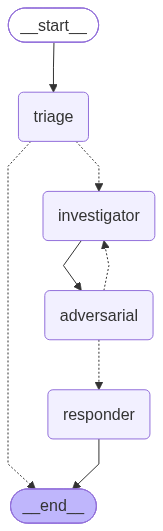
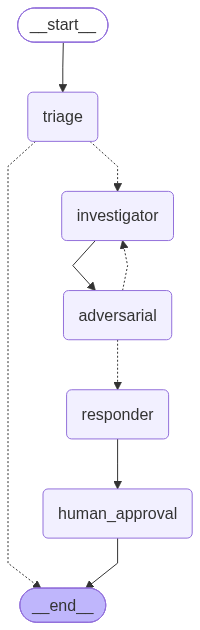
The responder agent human-in-the-loop was causing a bug where the entire responder node reran so the llm caused hallucination seperated it to human in the loop as seperate

diff --git a/agents/responder_agent.py b/agents/responder_agent.py
@@ -71,9 +71,6 @@ async def responder_agent(state: GraphState) -> GraphState:
         mitigation_domain = await get_mitre_mitigation(domain)
 
     mitigation_data = await run_agent(adversarial_output, domain)
-    print()
-    print("THIS IS MITIGATION DATA FROM RUN AGENT ",mitigation_data)
-    print()
 
     system_prompt = SystemMessage(content="""
         You are a SOC responder deciding the mitigation action for a security alert sequence.
@@ -112,32 +109,31 @@ async def responder_agent(state: GraphState) -> GraphState:
     print("REPONDER AGENT RESPONSE:",response, "\n")
     print()
 
-    decision = interrupt({"responder_output": response})
+    # decision = interrupt({"responder_output": response})
 
-    if decision == "y":
-        responder_output = {
-            "username": state["adversarial_output"]["affected_account"],
-            "hostname": state["adversarial_output"]["affected_host"],
-            "ip": state["adversarial_output"]["affected_ip"],
-            "agent_id": state["adversarial_output"]["agent_id"],
-            "technique_id": technique_id,
-            "technique_name": technique_name,
-            "cited_rule_ids": cited_rule_ids,
-            "mitigation_names": response.mitigation_names,
-            "mitigation_descriptions": response.mitigation_descriptions,
-            "action": response.action,
-            "severity": response.severity,
-            "confidence": response.confidence,
-            "reasoning": response.reasoning,
-            "remediation_plan": response.remediation_plan
-        }
+    # if decision == "y":
+    responder_output = {
+        "username": state["adversarial_output"]["affected_account"],
+        "hostname": state["adversarial_output"]["affected_host"],
+        "ip": state["adversarial_output"]["affected_ip"],
+        "agent_id": state["adversarial_output"]["agent_id"],
+        "technique_id": technique_id,
+        "technique_name": technique_name,
+        "cited_rule_ids": cited_rule_ids,
+        "mitigation_names": response.mitigation_names,
+        "mitigation_descriptions": response.mitigation_descriptions,
+        "action": response.action,
+        "severity": response.severity,
+        "confidence": response.confidence,
+        "reasoning": response.reasoning,
+        "remediation_plan": response.remediation_plan
+    }
 
-        os.makedirs(f"responder_output/{MODEL_NAME}", exist_ok=True)
-        with open(f"responder_output/{MODEL_NAME}/{session_id}_result.json", "w") as file:
-            json.dump(responder_output, file, indent=2)
+        # os.makedirs(f"responder_output/{MODEL_NAME}", exist_ok=True)
+        # with open(f"responder_output/{MODEL_NAME}/{session_id}_result.json", "w") as file:
+        #     json.dump(responder_output, file, indent=2)
 
-        print(f"Human decision: {decision}")
-
-        return GraphState(responder_output=responder_output)
-    else:
-        return GraphState(responder_output=None)
+        # print(f"Human decision: {decision}")
+    return GraphState(responder_output=responder_output)
+    # else:
+    #     return GraphState(responder_output=None)

diff --git a/graph/workflow.py b/graph/workflow.py
@@ -6,6 +6,7 @@ from agents.adversarial_agent import adversarial_agent
 from agents.responder_agent import responder_agent
 from typing import Literal
 from langgraph.checkpoint.memory import InMemorySaver
+from agents.human_approval import human_approval
 
 def route_after_tirage(state:GraphState)-> Literal["investigator", END]:
     if state["triage_output"]["mitigation_required"] == True:
@@ -29,13 +30,17 @@ def build_graph():
     builder.add_node("investigator", investigator_agent)
     builder.add_node("adversarial", adversarial_agent)
     builder.add_node("responder", responder_agent)
+    builder.add_node("human_approval", human_approval)
+
 
     # Edges
     builder.add_edge(START, "triage")
     builder.add_conditional_edges("triage", route_after_tirage)
     builder.add_edge("investigator", "adversarial")
     builder.add_conditional_edges("adversarial", route_after_adversal)
-    builder.add_edge("responder", END)
+    builder.add_edge("responder", "human_approval")
+    builder.add_edge("human_approval", END)
+
 
     # Compile
     graph = builder.compile(checkpointer=InMemorySaver())

diff --git a/agents/human_approval.py b/agents/human_approval.py
@@ -1,0 +1,23 @@
+from graph.state import GraphState
+from langgraph.types import interrupt
+import json
+import os
+
+MODEL_NAME = "gemini-3.7-flash"
+
+
+def human_approval(state: GraphState) -> GraphState:
+
+    responder_output = state["responder_output"]
+    session_id = state["session_id"]
+
+    decision = interrupt({"responder_output": responder_output})
+
+    if decision == "y":
+        os.makedirs(f"responder_output/{MODEL_NAME}", exist_ok=True)
+        with open(f"responder_output/{MODEL_NAME}/{session_id}_result.json", "w") as file:
+            json.dump(responder_output, file, indent=2)
+
+    print(f"Human decision: {decision}")
+
+    return GraphState(human_decision=decision)

diff --git a/main.py b/main.py
@@ -26,8 +26,11 @@ async def run():
     graph = build_graph()
     save_graph_diagram(graph)
 
-    # data = get_session("fox")
-    data = get_session("fox")
+    # scenarios = ["fox", "harrison", "russellmitchell", "santos", "shaw", "wardbeck", "wheeler", "wilson"]
+    # for n in scenarios:
+    #     data = get_session(n)
+
+    data = get_session("wilson")
 
     # print("THE DATA GET SESSION POISOND DATA",data)
           
